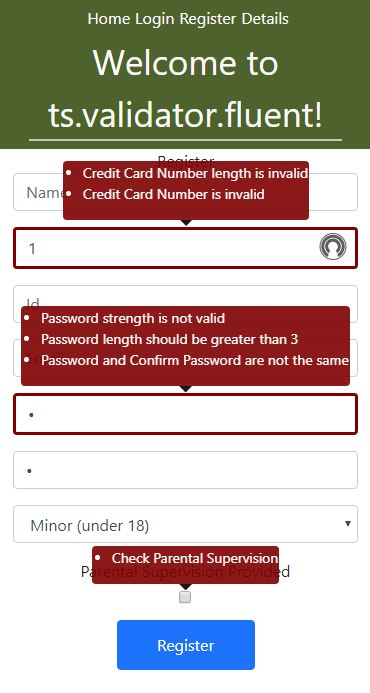
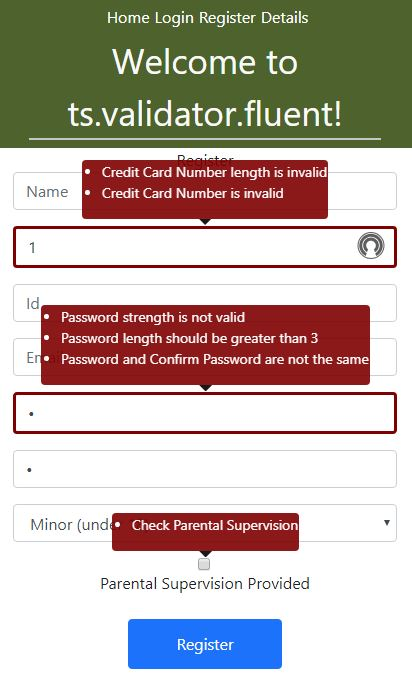
minor ui change to checkbox.

Changed region(s): [[0.0297, 0.0, 0.9811, 0.9753], [0.8622, 0.3048, 0.9811, 0.3962]]

diff --git a/src/app/components/register/register.component.html b/src/app/components/register/register.component.html
@@ -138,7 +138,7 @@
                     <option [ngValue]="ageGroup.Val" *ngFor="let ageGroup of ageGroups">{{ageGroup.Text}}</option>                                                            
                 </select>                               
             </div>
-            <div class="form-group" *ngIf="registerUser.AgeGroup == 2">
+            <div id="checkBoxField" class="form-group" *ngIf="registerUser.AgeGroup == 2">
                 <ng-template #tipContent7>                    
                     <ul class="tooltip-inner">
                         <li *ngFor="let error of validationResult?.IdentifierStartsWith('IsParentalSupervisionProvided')">
@@ -146,8 +146,8 @@
                         </li>
                     </ul>                    
                 </ng-template>                      
-                <label for="IsParentalSupervisionProvided">Parental Supervision Provided</label>            
-                <input 
+                <div style="margin:auto;">
+                    <input 
                         type="checkbox" 
                         id="IsParentalSupervisionProvided"
                         name="IsParentalSupervisionProvided"
@@ -156,7 +156,9 @@
                         (ngModelChange)="!validateMe('IsParentalSupervisionProvided') ? t7.open() : t7.close()" 
                         [ngbTooltip]="tipContent7" 
                         #t7="ngbTooltip"                         
-                        />                                  
+                        />
+                    <label for="IsParentalSupervisionProvided">Parental Supervision Provided</label>                        
+                </div>                            
             </div>
             <div class="form-group">
                 <button type="submit" class="btn btn-primary" style="width: 40%; height: 50px;" (click)="register()">Register</button>
